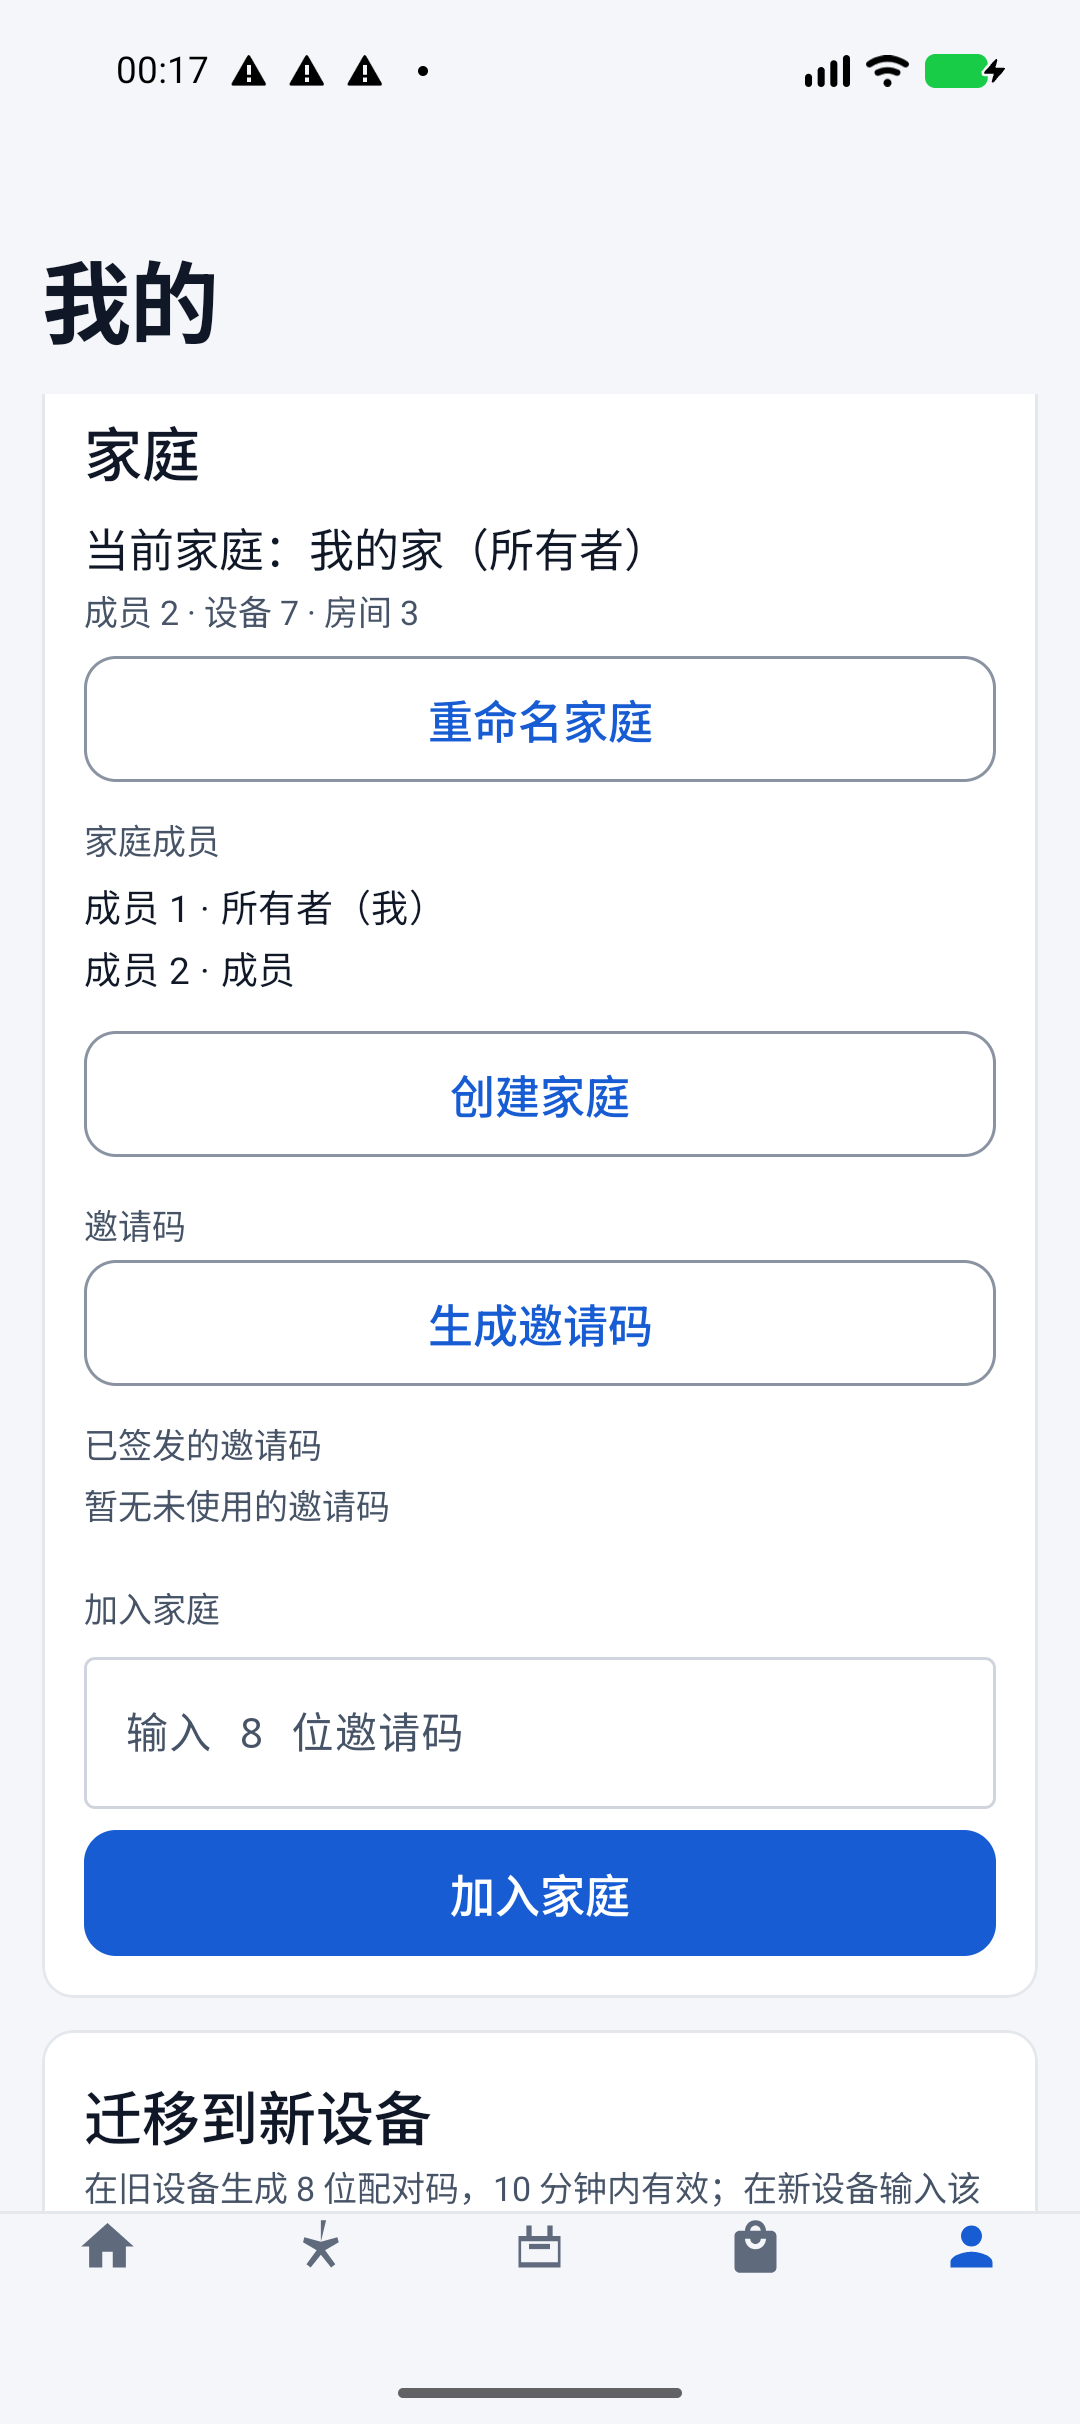
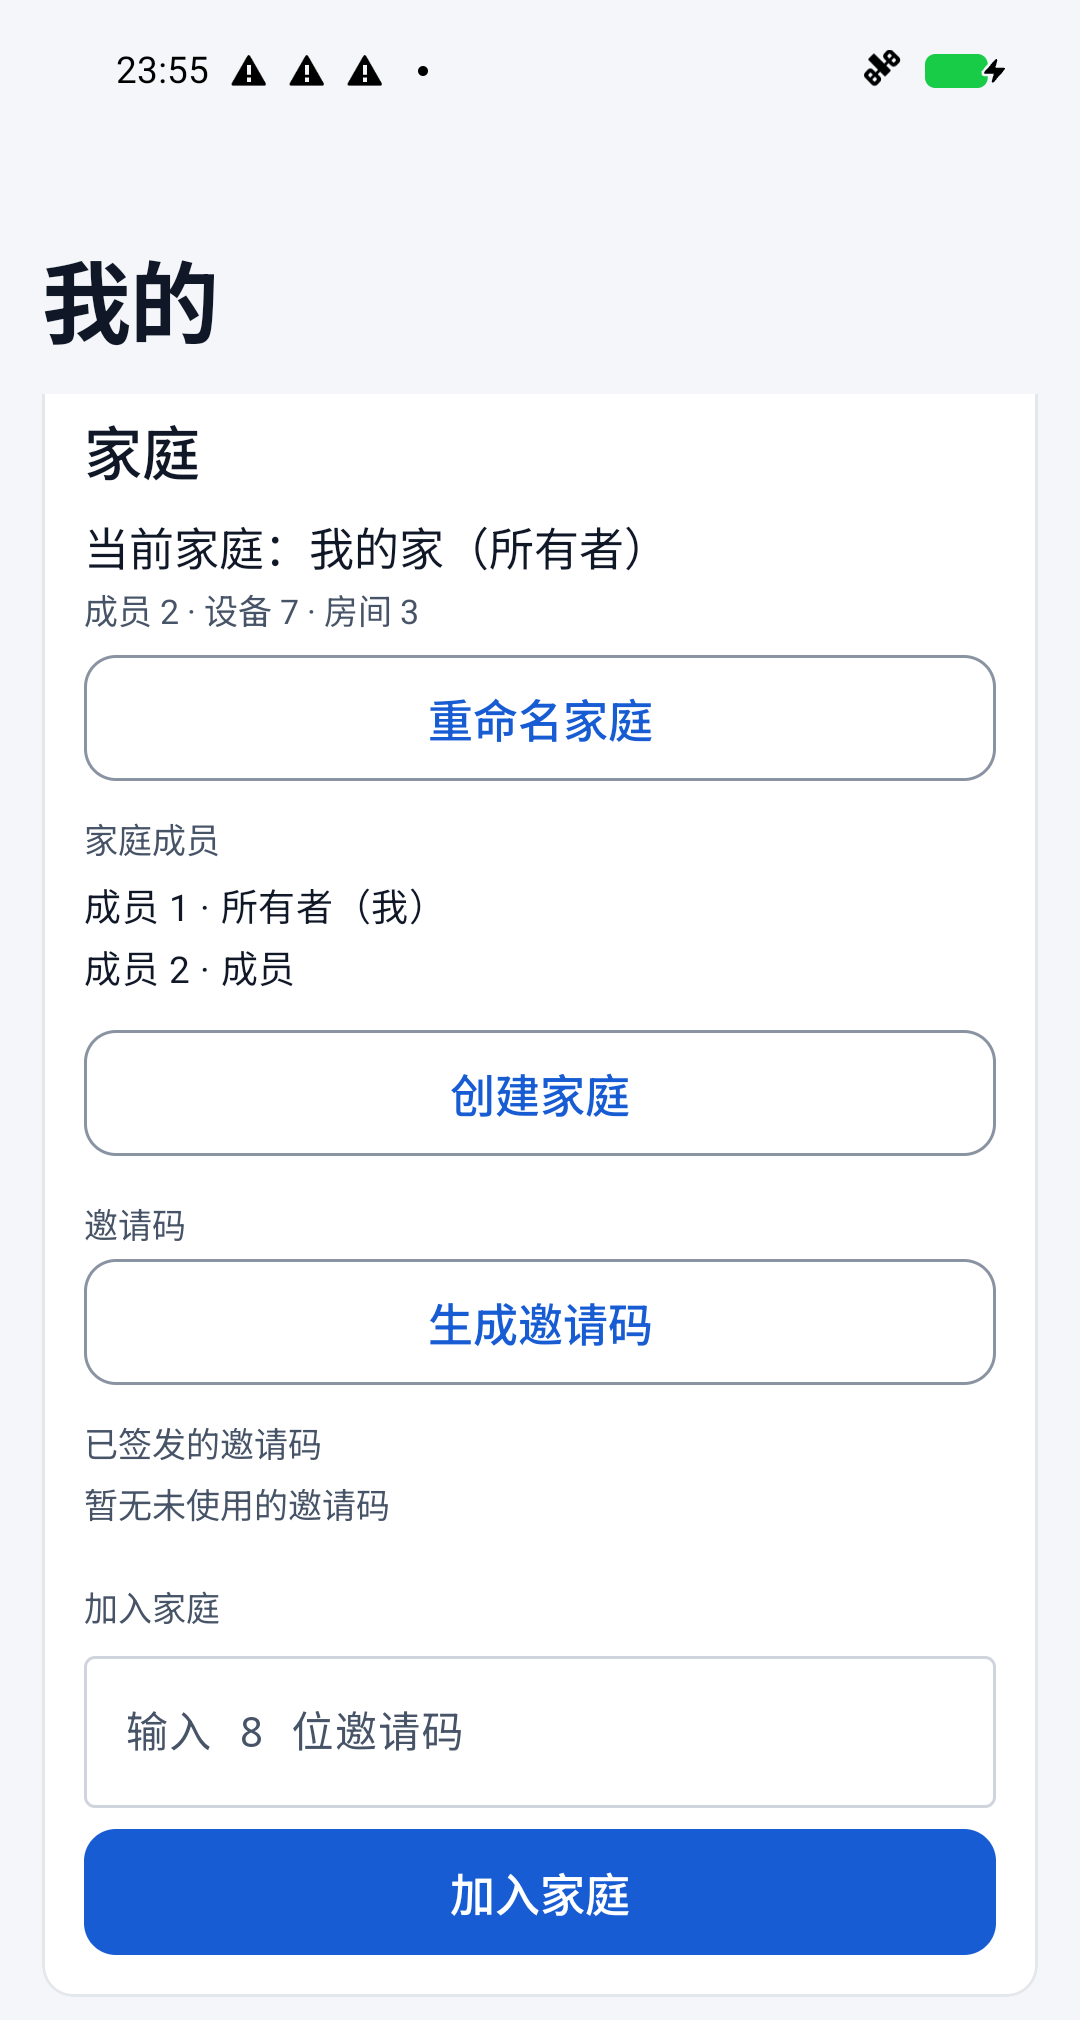
chore(screenshots): 首页回到滚动顶部、家庭区止于加入家庭按钮，发布 v0.28.1

diff --git a/docs/acceptance.md b/docs/acceptance.md
@@ -1,9 +1,9 @@
-# 真机验收清单（v0.27.0）
+# 真机验收清单（v0.28.1）
 
 本清单用于「执行人不在开发现场」时也能照着做完验收。每项都写明**操作步骤、预期现象、失败判定**。
 所有结果请记录到文末的「验收记录表」；未实际执行的项不要填 PASS。
 
-- 适用版本：`versionName = 0.27.0`（`versionCode = 35`）
+- 适用版本：`versionName = 0.28.1`（`versionCode = 37`）
 - 应用包名：`com.platojobs.pkotlinapp`
 - 主界面：`com.platojobs.pkotlinapp.ui.MainActivity`
 - 设备详情：`com.platojobs.pkotlinapp.ui.detail.DeviceDetailActivity`
@@ -55,7 +55,7 @@ adb install -r app/build/outputs/apk/debug/app-debug.apk
 adb shell dumpsys package com.platojobs.pkotlinapp | grep -E "versionName|versionCode"
 ```
 
-预期：`versionName=0.27.0`、`versionCode=35`。
+预期：`versionName=0.28.1`、`versionCode=37`。
 
 ---
 
@@ -1311,7 +1311,7 @@ apksigner verify --print-certs app/build/outputs/apk/release/app-release.apk
 - 跨 DST 的真实时区切换（自动化已覆盖 02:30 → 03:30 与秋季重复小时，真机仅作补充）。
 - 场景 6 个 `SCENE_*` 码在真实后端联调环境的逐条触发（fixture 中只做了映射与文案验证）。
 
-## 14. 真 Postgres e2e 与界面截图（v0.28.0）
+## 14. 真 Postgres e2e 与界面截图（v0.28.1）
 
 ### 14.1 场景链路（真 Postgres）
 
@@ -1333,12 +1333,18 @@ apksigner verify --print-certs app/build/outputs/apk/release/app-release.apk
 - 截图停点（v0.28.0）：每张滚动页的视口顶部第一个可见元素必须是完整卡片或完整区块标题，不允许上一张卡只剩一行尾巴。停点用 uiautomator 节点树自动断言，不靠肉眼：
   `adb shell uiautomator dump /sdcard/ui.xml && adb exec-out cat /sdcard/ui.xml > /tmp/ui.xml && python3 scripts/check-screenshot-top.py /tmp/ui.xml --expect-top 客厅温湿度计`
   脚本取视口内第一个带 `text` 的节点（跳过 `contentDescription`，卡片自身的 content-desc 会排在标题前造成误判），要求其文字以 `--expect-top` 开头、且其所属 `CardView` 的 top 不高于视口 top（容差 2dp × density）。首页断言「客厅温湿度计」卡片 top=1024 / 视口 top=993（间隙 31px），家庭区断言「家庭」卡 top=394 / 视口 top=394（间隙 0px），均 PASS。列表底部露出下一张卡的半截属于正常滚动暗示，脚本只输出 WARN 不判失败（`--strict-bottom` 才计入失败）。
+- 截图构图（v0.28.1）：`home.png` 重截为 scroll 0，从「首页」标题开始，今日概览（2400 条读数、峰值 23 点 100 条）与设备状态（10 在线 / 2 离线 / 0 未分配 / 0 低电量）完整可见；视口仍为 `[0,993][1080,2211]`，图片裁到 1080×2073，底部切点落在「设备状态」卡底 2060 与「最近活动」卡顶 2081 之间（13px 间隙），不切字。`profile_household.png` 停点保持「家庭」卡顶部（卡 `[42,394][1038,1997]`、标题 top=407），图片裁到 1080×2020，「加入家庭」按钮 `[84,1829][996,1955]` 为最后一个完整元素，卡底 1997 下保留 23px 留白，「迁移到新设备」卡（top=2029）完全不出现。断言输出：`check-screenshot-top.py /tmp/pback2.xml --expect-top 今日概览` → 「OK 顶部: 首个可见文字『今日概览』卡片 top=1014，视口 top=993（间隙 21px）」+ PASS；`check-screenshot-top.py /tmp/pfam_stop.xml --expect-top 家庭` → 「OK 顶部: 首个可见文字『家庭』卡片 top=394，视口 top=394（间隙 0px）」+ PASS。底部均人工复核：无半句、无 Tab 栏。
 - 峰值小时口径（v0.28.0）：「今日读数按小时分布，峰值 X 点 Y 条」的 X 由 `List<HourCount>.peakHour()` 计算，并列时取最晚出现的小时（旧实现 `maxByOrNull` 并列取首个，导致均匀数据下永远是 0 点）。本地今日 0–22 点各 100 条、23 点 25 条，页面显示「峰值 22 点 100 条」；`HourlyPeakTest` 覆盖并列 / 单峰 / 无数据。
 - 失败判定：出现占位图/拼图/旧图、页面空白或崩溃、可滚动页面最后一项被系统手势条遮挡、设备详情指标名显示「其他」而原始 key 不是未知值、200% 字号下文字重叠或按钮不可点。
 
 ### 14.4 截图过程中修复的界面问题（需单独提交）
 
-本版（v0.28.0）：
+本版（v0.28.1）：
+
+- 首页 `home.png` 从「客厅温湿度计」卡开始，把今日概览与设备状态整块滚没了：重截为 scroll 0，并裁到底部卡片间隙（1080×2073）。
+- 家庭区 `profile_household.png` 底部露出「迁移到新设备」半句：裁到家庭卡底边留白（1080×2020），「加入家庭」按钮为最后一个完整元素。
+
+v0.28.0：
 
 - 首页截图顶部残留「今日读数按小时分布，峰值 0 点 100 条」一行（今日概览卡被滚掉上半截）：停点改为「客厅温湿度计」卡顶部。
 - 家庭区截图「我的」标题下残留「断开自动停止。」（后台采集卡的最后一行）：停点改为「家庭」卡顶部。
